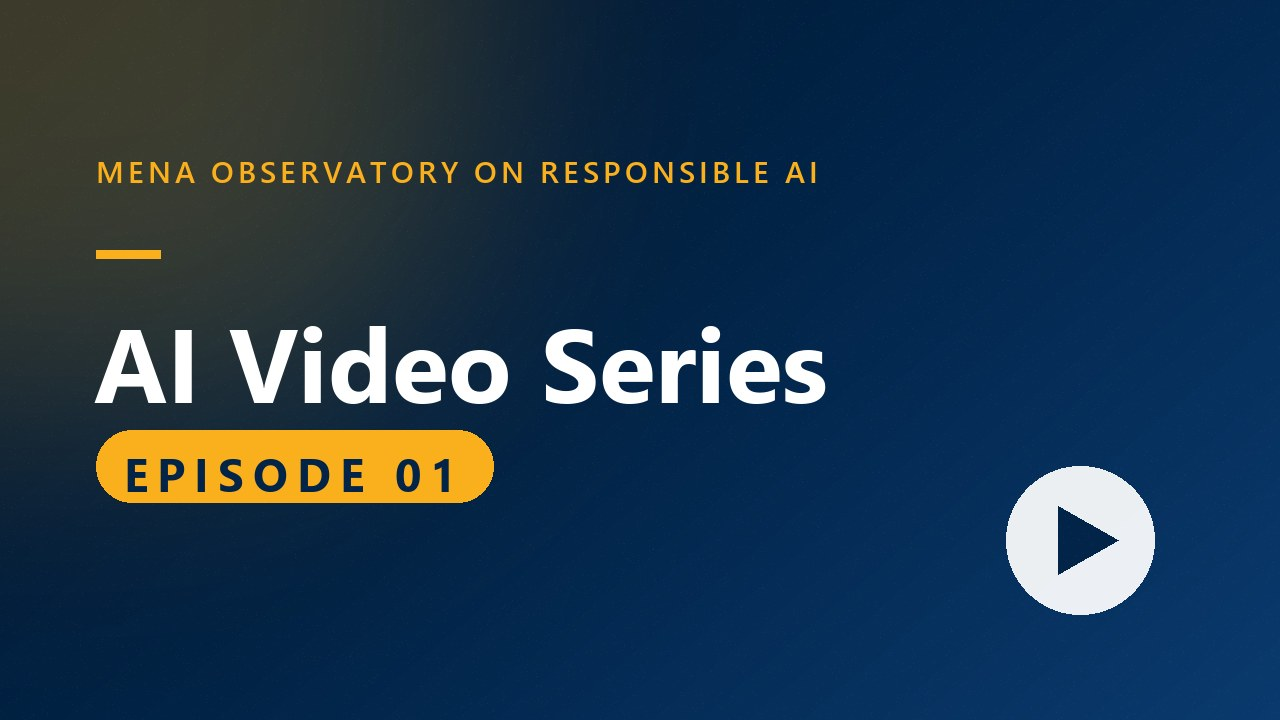
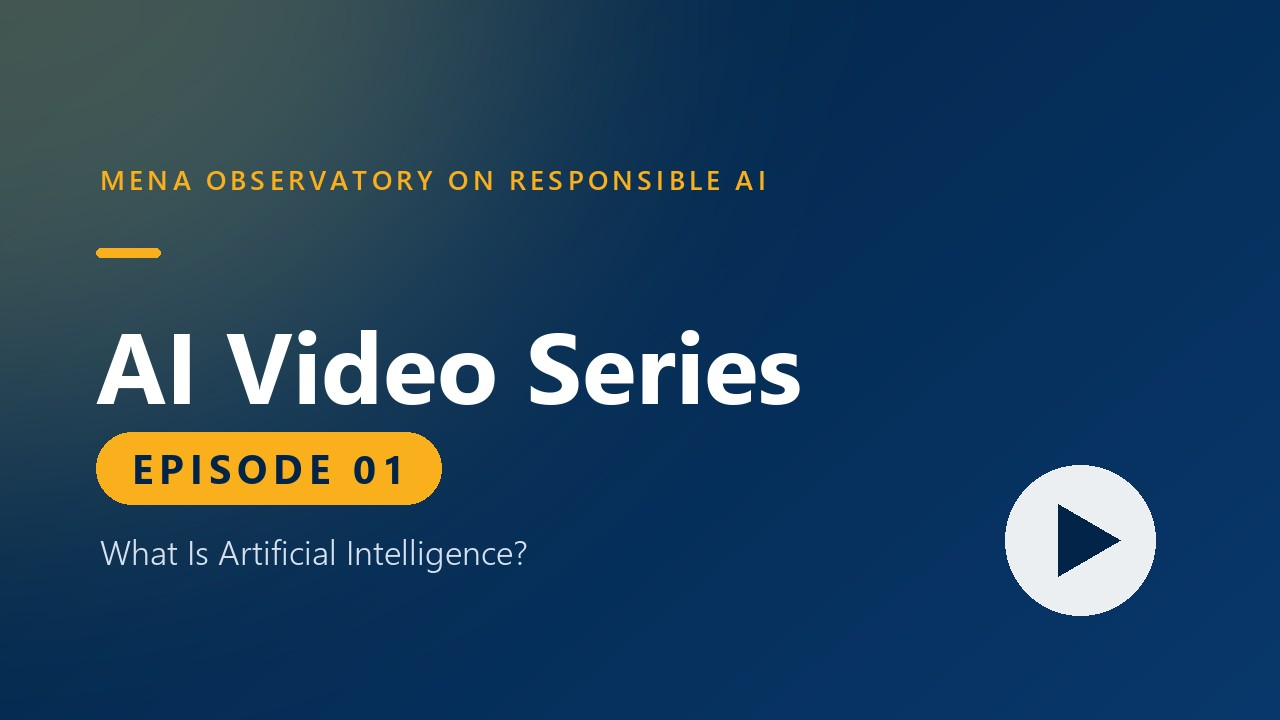
aswat: publish AI Video Series EP03 and rename EP01 to the series scheme
Replaces the one-off Ep1 seeder with AiVideoSeriesSeeder, which upserts
every episode by Drive link: EP01 gets its full title, topic description
and a refreshed card; EP03 ("AI in Our World – Real Applications Across
Sectors", the HD-with-subtitles cut) is added. Cards are generated from
one template so the series stays visually consistent; EP02/04/05 slots
are documented in the seeder for when they're finalised.

Changed region(s): [[0.0, 0.0, 0.6562, 0.7944]]

diff --git a/database/seeders/AiVideoSeriesSeeder.php b/database/seeders/AiVideoSeriesSeeder.php
@@ -1,0 +1,71 @@
+<?php
+
+namespace Database\Seeders;
+
+use App\Models\Aswat;
+use Illuminate\Database\Seeder;
+use Illuminate\Support\Facades\Storage;
+
+/**
+ * Publishes the MENA Observatory "AI Video Series" episodes to the Aswat tab
+ * and installs their branded cards (committed under seeders/assets/aswat)
+ * onto the public disk. Each episode is keyed on its Drive link so the
+ * seeder is idempotent: re-running updates titles/descriptions/thumbnails in
+ * place. The Drive links play inline via the model's embed_url (/preview).
+ *
+ * To publish a new episode, add it to $episodes (link = the "HD with sub"
+ * cut from the series Drive folder) and commit its card, then run:
+ *
+ *     php artisan db:seed --class=Database\Seeders\AiVideoSeriesSeeder --force
+ *
+ * Planned (not yet finalised):
+ *   EP02: How AI Learns – Machine Learning Explained
+ *   EP04: The Responsible AI Challenge – Ethics, Bias & Fairness
+ *   EP05: Governing AI – Frameworks, Policy & Our Collective Future
+ */
+class AiVideoSeriesSeeder extends Seeder
+{
+    /** @var array<int, array{link: string, title: string, description: string, thumb: string}> */
+    private array $episodes = [
+        [
+            'link'        => 'https://drive.google.com/file/d/1YfBe_ihgsipOTjypmgakLNpKjGOxgVyd/view',
+            'title'       => 'AI Video Series – EP01: What Is Artificial Intelligence?',
+            'description' => 'Defining AI · A brief history from Turing to today · AI vs. human intelligence · AI in everyday life',
+            'thumb'       => 'ai-video-series-ep1.jpg',
+        ],
+        [
+            'link'        => 'https://drive.google.com/file/d/1YtE6wnitZaOegxT5fa9_jGehbjVByjpQ/view',
+            'title'       => 'AI Video Series – EP03: AI in Our World – Real Applications Across Sectors',
+            'description' => 'AI in healthcare & education · AI in content and media · AI in robotics & automation · Opportunities for the MENA region',
+            'thumb'       => 'ai-video-series-ep3.jpg',
+        ],
+    ];
+
+    public function run(): void
+    {
+        $disk = Storage::disk('public');
+        $disk->makeDirectory('aswat_thumbs');
+
+        foreach ($this->episodes as $ep) {
+            $thumbRel = 'aswat_thumbs/' . $ep['thumb'];
+            $src = database_path('seeders/assets/aswat/' . $ep['thumb']);
+            $hasThumb = is_file($src);
+            if ($hasThumb) {
+                $disk->put($thumbRel, file_get_contents($src));
+            }
+
+            $attrs = [
+                'title'       => $ep['title'],
+                'description' => $ep['description'],
+            ];
+            if ($hasThumb) {
+                $attrs['thumbnail_image'] = $thumbRel;
+            }
+
+            Aswat::updateOrCreate(['link' => $ep['link']], $attrs);
+            $this->command->info('  ' . $ep['title'] . ($hasThumb ? '' : '  (no card found, thumbnail unchanged)'));
+        }
+
+        $this->command->info('AI Video Series: ' . count($this->episodes) . ' episode(s) published to Aswat.');
+    }
+}
